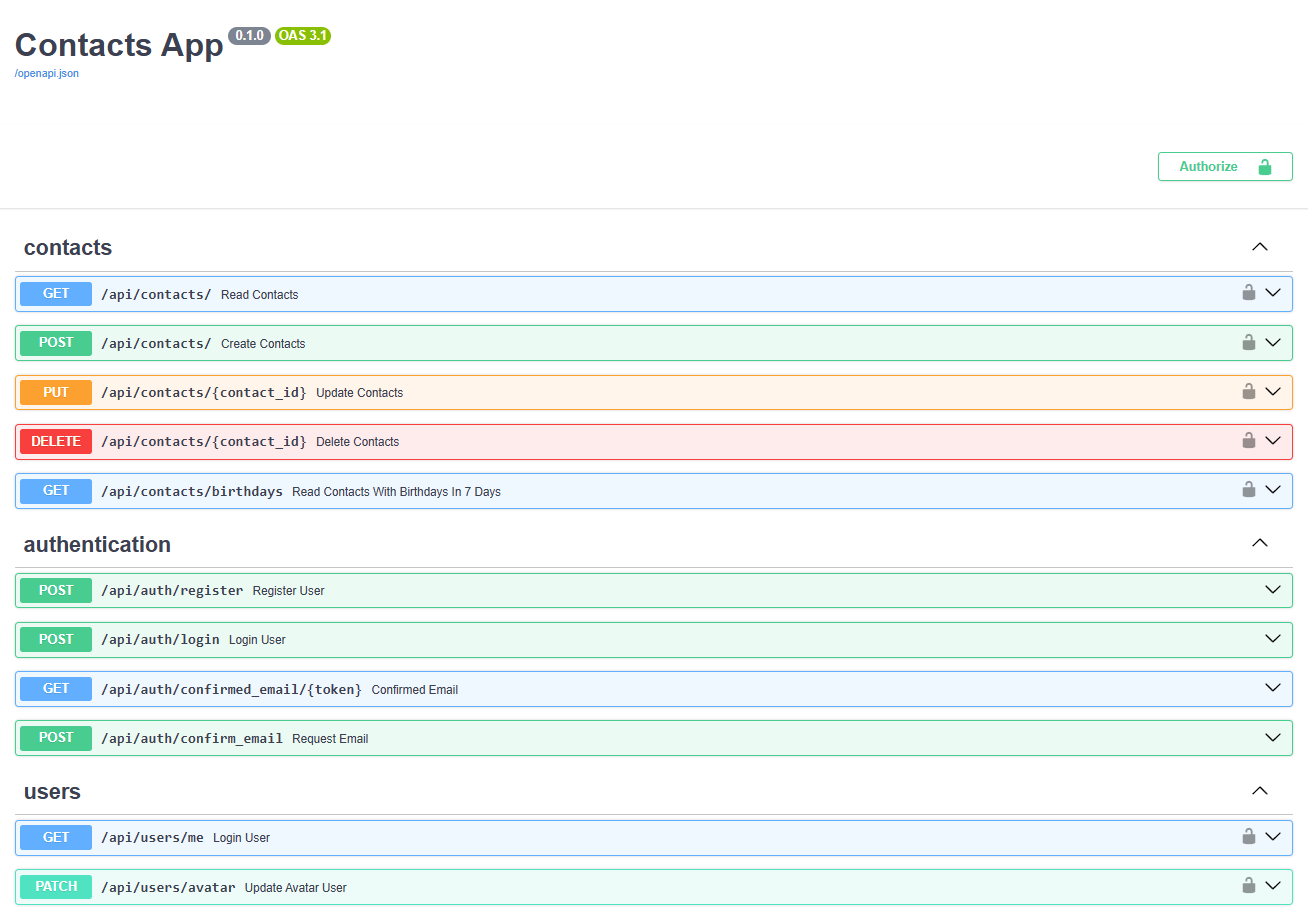
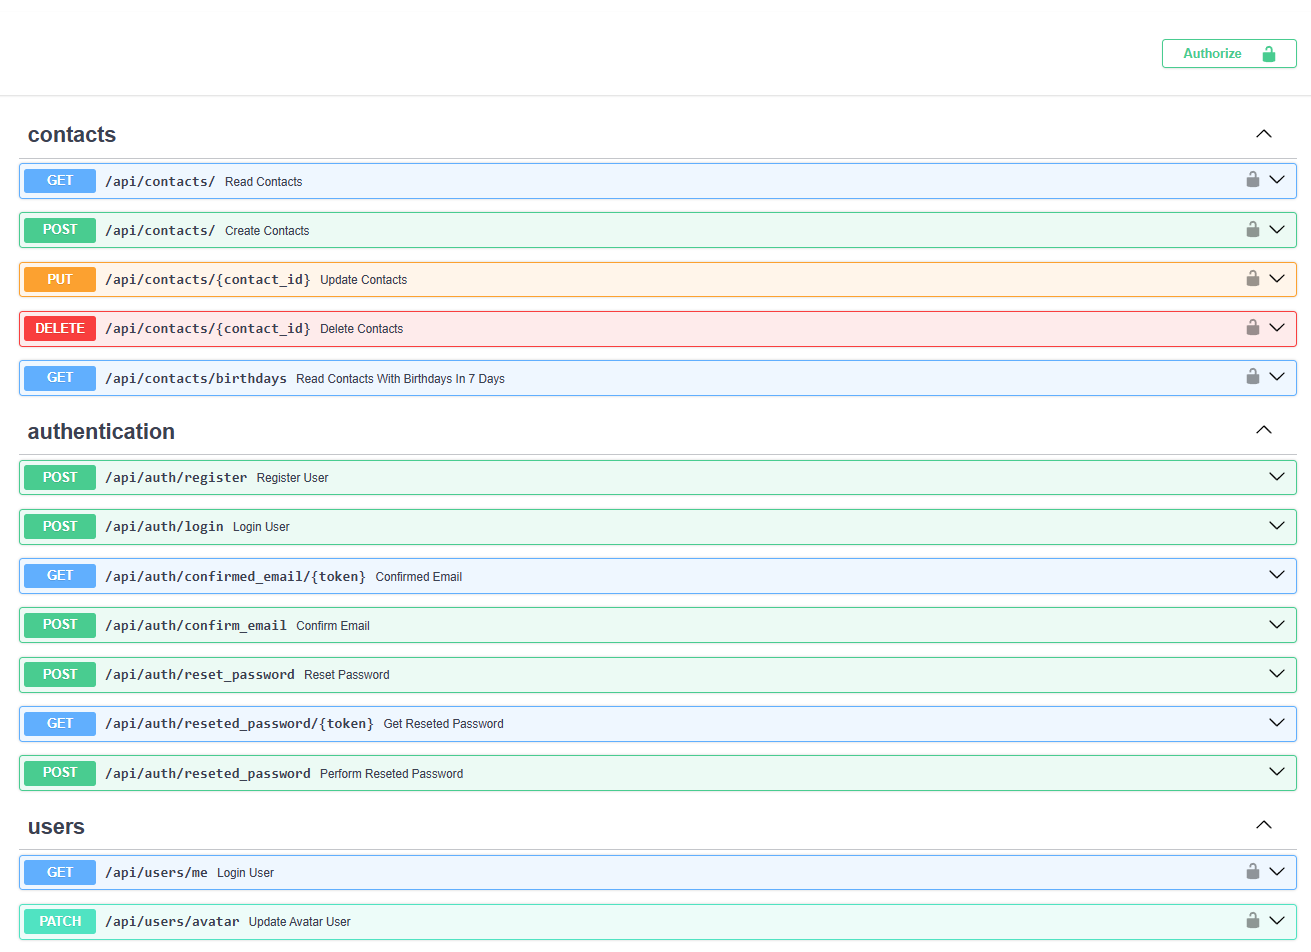
* readme fix * start testing

Changed region(s): [[0.0, 0.122, 1.0, 1.0], [0.0, 0.0305, 0.2752, 0.0915], [0.8869, 0.0305, 0.9786, 0.0915]]

diff --git a/tests/repository/test_contacts.py b/tests/repository/test_contacts.py
@@ -1,0 +1,47 @@
+import pytest
+import asyncio
+from sqlalchemy.ext.asyncio import AsyncSession, create_async_engine, async_sessionmaker
+from app.repository.contacts import ContactRepository
+from app.repository.models import Contact
+from sqlalchemy.orm import declarative_base
+
+DATABASE_URL = "sqlite+aiosqlite:///:memory:"
+engine = create_async_engine(DATABASE_URL, echo=True)
+TestingSessionLocal = async_sessionmaker(bind=engine, expire_on_commit=False)
+Base = declarative_base()
+
+@pytest.fixture
+async def db_session():
+    async with TestingSessionLocal() as session:
+        yield session
+
+@pytest.fixture
+async def contact_repo(db_session: AsyncSession):
+    return ContactRepository(db_session)
+
+@pytest.mark.asyncio
+async def test_create_contact(contact_repo):
+    contact = Contact(name="John Doe", email="john.doe@example.com")
+    created_contact = await contact_repo.create(contact)
+    
+    assert created_contact.id is not None
+    assert created_contact.name == "John Doe"
+    assert created_contact.email == "john.doe@example.com"
+
+@pytest.mark.asyncio
+async def test_get_contact(contact_repo):
+    contact = Contact(name="Jane Doe", email="jane.doe@example.com")
+    created_contact = await contact_repo.create(contact)
+    fetched_contact = await contact_repo.get(created_contact.id)
+    
+    assert fetched_contact is not None
+    assert fetched_contact.id == created_contact.id
+
+@pytest.mark.asyncio
+async def test_delete_contact(contact_repo):
+    contact = Contact(name="Alice", email="alice@example.com")
+    created_contact = await contact_repo.create(contact)
+    
+    await contact_repo.delete(created_contact.id)
+    fetched_contact = await contact_repo.get(created_contact.id)
+    assert fetched_contact is None

diff --git a/tests/__init__.py b/tests/__init__.py
@@ -1,0 +1,4 @@
+import sys
+import os
+
+sys.path.insert(0, os.path.abspath(os.path.join(os.path.dirname(__file__), "..")))

diff --git a/README.MD b/README.MD
@@ -1,4 +1,4 @@
-# Python web app with AuthN and AuthZ PoC
+# Python web app with AuthN and AuthZ
 
 ## Description
 The application is designed for securely storing contacts. Each user can create and manage their own contacts. The interface is provided by Swagger UI, allowing users to send authenticated requests.
@@ -8,9 +8,11 @@ The application is designed for securely storing contacts. Each user can create 
 * Email confirmation
 * Avatar management
 * User authentication via username and password
+* Reset user password flow
 * Secure creation, updating, and deletion of contacts
 * Contact search based on specific criteria
 * Retrieval of contacts with birthdays in the next 7 days
+* Caching token using Redis
 
 By default Swagger UI accessible:
 ```
@@ -32,7 +34,7 @@ http://localhost:8000/docs#/
 ## Checkout repo 
 To clone the repository, use the following command:
 ```bash
-git clone https://github.com/yourusername/goit-pythonweb-hw-10.git
+git clone https://github.com/yourusername/goit-pythonweb-hw-012.git
 ```
 
 ## Run application locally
@@ -59,7 +61,11 @@ poetry run .\app\main.py
 ### Run postgres for local setup
 Start postgres database:
 ```bash
-docker run --name postgres-goit-pythonweb-hw-10 -p 5432:5432 -e POSTGRES_USER=postgres -e POSTGRES_PASSWORD=mysecretpassword -e POSTGRES_DB=hw10 -d postgres
+docker run --name postgres-goit-pythonweb-hw-12 -p 5432:5432 -e POSTGRES_USER=postgres -e POSTGRES_PASSWORD=mysecretpassword -e POSTGRES_DB=hw12 -d postgres
+```
+Start Redis cache:
+```bash
+docker run --name redis-goit-pythonweb-hw-12 -p 6379:6379 -d redis
 ```
 
 ## Run application with docker compose
